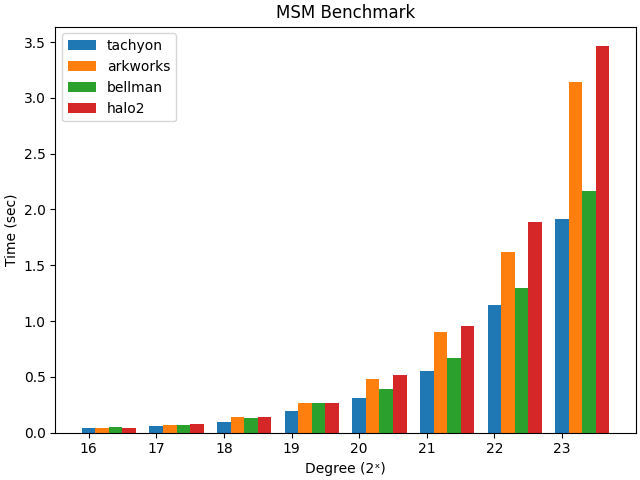
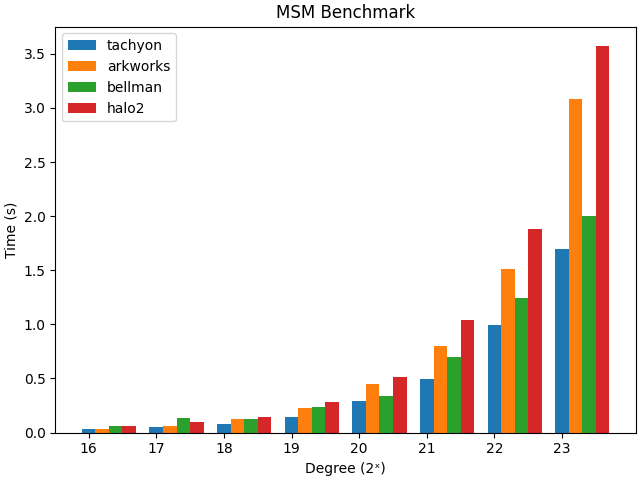
docs(benchmark): update MSM benchmarks with new flags

diff --git a/benchmark/msm/README.md b/benchmark/msm/README.md
@@ -4,6 +4,7 @@
 
 ```
 Run on 13th Gen Intel(R) Core(TM) i9-13900K (32 X 5500 MHz CPU s)
+Compiler: clang-15
 CPU Caches:
   L1 Data 48 KiB (x16)
   L1 Instruction 32 KiB (x16)
@@ -17,24 +18,26 @@ CPU Caches:
   L2 Unified 4096 KiB (x12)
 ```
 
+Note: Run with `build --@rules_rust//:extra_rustc_flags="-Ctarget-cpu=native"` in your .bazelrc.user
+
 ### Uniform points
 
 ```shell
-bazel run --config opt --//:has_matplotlib //benchmark/msm:msm_benchmark -- -k 16 -k 17 -k 18 -k 19 -k 20 -k 21 -k 22 -k 23 --vendor arkworks --vendor bellman --vendor halo2 --check_results
+GOMP_SPINCOUNT=0 bazel run --config maxopt --//:has_matplotlib //benchmark/msm:msm_benchmark -- -k 16 -k 17 -k 18 -k 19 -k 20 -k 21 -k 22 -k 23 --vendor arkworks --vendor bellman --vendor halo2 --check_results
 ```
 
 #### On Intel i9-13900K
 
 | Exponent | Tachyon      | Arkworks | Bellman  | Halo2    |
 | :------: | ------------ | -------- | -------- | -------- |
-|    16    | **0.037107** | 0.043005 | 0.079576 | 0.04854  |
-|    17    | **0.051857** | 0.078176 | 0.11077  | 0.087005 |
-|    18    | **0.10235**  | 0.15416  | 0.179148 | 0.146375 |
-|    19    | **0.185314** | 0.301129 | 0.360499 | 0.273742 |
-|    20    | **0.352276** | 0.592931 | 0.516447 | 0.533842 |
-|    21    | **0.630413** | 1.07979  | 1.00715  | 1.01114  |
-|    22    | **1.22393**  | 2.18742  | 2.00827  | 1.99418  |
-|    23    | **2.34737**  | 4.34471  | 3.2081   | 3.62107  |
+|    16    | **0.028461** | 0.037741 | 0.077416 | 0.045742 |
+|    17    | **0.059648** | 0.074936 | 0.105104 | 0.08211  |
+|    18    | **0.08743**  | 0.12735  | 0.196602 | 0.151715 |
+|    19    | **0.181646** | 0.252424 | 0.319185 | 0.282056 |
+|    20    | **0.303829** | 0.454595 | 0.471094 | 0.526231 |
+|    21    | **0.549287** | 0.951397 | 0.886244 | 1.00624  |
+|    22    | **1.11021**  | 2.00783  | 1.72011  | 1.9662   |
+|    23    | **2.06762**  | 3.78478  | 2.76673  | 3.68139  |
 
 ![image](/benchmark/msm/msm_benchmark_uniform_ubuntu_i9.png)
 
@@ -42,35 +45,35 @@ bazel run --config opt --//:has_matplotlib //benchmark/msm:msm_benchmark -- -k 1
 
 | Exponent | Tachyon      | Arkworks | Bellman  | Halo2    |
 | :------: | ------------ | -------- | -------- | -------- |
-|    16    | **0.049285** | 0.052368 | 0.118564 | 0.079168 |
-|    17    | **0.088628** | 0.105875 | 0.16704  | 0.142758 |
-|    18    | **0.157609** | 0.19186  | 0.299953 | 0.278592 |
-|    19    | **0.282686** | 0.351326 | 0.578682 | 0.506371 |
-|    20    | **0.571241** | 0.702036 | 0.901252 | 0.974515 |
-|    21    | **1.106550** | 1.54553  | 1.63521  | 1.85615  |
-|    22    | **2.276600** | 3.35888  | 3.274    | 3.68391  |
-|    23    | **4.191330** | 6.41272  | 5.86292  | 6.89936  |
+|    16    | **0.046099** | 0.051773 | 0.110882 | 0.09505  |
+|    17    | **0.079298** | 0.097698 | 0.166183 | 0.174984 |
+|    18    | **0.151962** | 0.173607 | 0.296879 | 0.337657 |
+|    19    | **0.287848** | 0.34129  | 0.5563   | 0.592885 |
+|    20    | **0.504987** | 0.630489 | 0.840907 | 1.07097  |
+|    21    | **0.980302** | 1.33391  | 1.56196  | 1.98335  |
+|    22    | **1.89977**  | 2.86768  | 3.04392  | 3.9341   |
+|    23    | **3.73015**  | 5.71419  | 5.45636  | 7.51033  |
 
 ![image](/benchmark/msm/msm_benchmark_uniform_mac_m3.png)
 
 ### Non-uniform points
 
 ```shell
-bazel run --config opt --//:has_matplotlib //benchmark/msm:msm_benchmark -- -k 16 -k 17 -k 18 -k 19 -k 20 -k 21 -k 22 -k 23 --vendor arkworks --vendor bellman --vendor halo2 --test_set non_uniform --check_results
+GOMP_SPINCOUNT=0 bazel run --config maxopt --//:has_matplotlib //benchmark/msm:msm_benchmark -- -k 16 -k 17 -k 18 -k 19 -k 20 -k 21 -k 22 -k 23 --vendor arkworks --vendor bellman --vendor halo2 --test_set non_uniform --check_results
 ```
 
 #### On Intel i9-13900K
 
-| Exponent | Tachyon      | Arkworks     | Bellman  | Halo2    |
-| :------: | ------------ | ------------ | -------- | -------- |
-|    16    | 0.041756     | **0.038514** | 0.050397 | 0.040222 |
-|    17    | **0.06304**  | 0.069963     | 0.067314 | 0.07276  |
-|    18    | **0.09546**  | 0.137724     | 0.126665 | 0.138729 |
-|    19    | **0.189892** | 0.261193     | 0.262439 | 0.26166  |
-|    20    | **0.313575** | 0.475754     | 0.387448 | 0.51257  |
-|    21    | **0.550828** | 0.901562     | 0.666334 | 0.955411 |
-|    22    | **1.14408**  | 1.61699      | 1.29853  | 1.88522  |
-|    23    | **1.91659**  | 3.13911      | 2.16368  | 3.46701  |
+| Exponent | Tachyon      | Arkworks | Bellman  | Halo2    |
+| :------: | ------------ | -------- | -------- | -------- |
+|    16    | **0.030188** | 0.033608 | 0.057795 | 0.060642 |
+|    17    | **0.048851** | 0.064059 | 0.132584 | 0.099568 |
+|    18    | **0.080146** | 0.121525 | 0.124192 | 0.147496 |
+|    19    | **0.147626** | 0.227517 | 0.234429 | 0.27793  |
+|    20    | **0.289661** | 0.445139 | 0.341189 | 0.509375 |
+|    21    | **0.495707** | 0.801975 | 0.702259 | 1.0386   |
+|    22    | **0.993738** | 1.51266  | 1.24812  | 1.88462  |
+|    23    | **1.69944**  | 3.07904  | 2.00071  | 3.57452  |
 
 ![image](/benchmark/msm/msm_benchmark_non_uniform_ubuntu_i9.png)
 
@@ -78,14 +81,14 @@ bazel run --config opt --//:has_matplotlib //benchmark/msm:msm_benchmark -- -k 1
 
 | Exponent | Tachyon      | Arkworks | Bellman  | Halo2    |
 | :------: | ------------ | -------- | -------- | -------- |
-|    16    | **0.040045** | 0.049862 | 0.083292 | 0.082423 |
-|    17    | **0.074318** | 0.091205 | 0.128679 | 0.157111 |
-|    18    | **0.140125** | 0.177842 | 0.232212 | 0.310648 |
-|    19    | **0.287691** | 0.330268 | 0.437016 | 0.535915 |
-|    20    | **0.55437**  | 0.651841 | 0.713282 | 1.01238  |
-|    21    | **1.01053**  | 1.36348  | 1.29945  | 1.75816  |
-|    22    | **2.00677**  | 2.56     | 2.49532  | 3.55769  |
-|    23    | **4.02119**  | 5.2982   | 4.56454  | 7.11582  |
+|    16    | **0.040954** | 0.046663 | 0.076068 | 0.089352 |
+|    17    | **0.069956** | 0.089339 | 0.119363 | 0.166812 |
+|    18    | **0.146869** | 0.163578 | 0.225768 | 0.326553 |
+|    19    | **0.268475** | 0.302439 | 0.460063 | 0.579915 |
+|    20    | **0.501956** | 0.627272 | 0.723071 | 1.09316  |
+|    21    | **0.920728** | 1.20662  | 1.22352  | 1.98457  |
+|    22    | **1.78902**  | 2.40124  | 2.24543  | 3.83765  |
+|    23    | **3.47906**  | 4.70651  | 4.13381  | 7.43978  |
 
 ![image](/benchmark/msm/msm_benchmark_non_uniform_mac_m3.png)
 
@@ -94,41 +97,41 @@ bazel run --config opt --//:has_matplotlib //benchmark/msm:msm_benchmark -- -k 1
 ### Uniform points
 
 ```shell
-bazel run --config opt --//:has_matplotlib --config cuda //benchmark/msm:msm_benchmark_gpu -- -k 16 -k 17 -k 18 -k 19 -k 20 -k 21 -k 22 -k 23 --test_set non_uniform --check_results
+GOMP_SPINCOUNT=0 bazel run --config maxopt --//:has_matplotlib --config cuda //benchmark/msm:msm_benchmark_gpu -- -k 16 -k 17 -k 18 -k 19 -k 20 -k 21 -k 22 -k 23 --test_set non_uniform --check_results
 ```
 
 #### On RTX-4090
 
 | Exponent | Tachyon CPU | Tachyon GPU  |
 | :------: | ----------- | ------------ |
-|    16    | 0.044828    | **0.02644**  |
-|    17    | 0.070154    | **0.008896** |
-|    18    | 0.120668    | **0.015391** |
-|    19    | 0.191098    | **0.021299** |
-|    20    | 0.369561    | **0.032302** |
-|    21    | 0.675571    | **0.060279** |
-|    22    | 1.26675     | **0.166554** |
-|    23    | 2.41323     | **0.219751** |
+|    16    | 0.026688    | **0.01981**  |
+|    17    | 0.041291    | **0.006624** |
+|    18    | 0.081467    | **0.008306** |
+|    19    | 0.148929    | **0.012553** |
+|    20    | 0.260831    | **0.02423**  |
+|    21    | 0.474542    | **0.044591** |
+|    22    | 0.921276    | **0.088349** |
+|    23    | 1.70264     | **0.162646** |
 
 ![image](/benchmark/msm/msm_benchmark_uniform_ubuntu_rtx_4090.png)
 
 ### Non-uniform points
 
 ```shell
-bazel run --config opt --//:has_matplotlib --config cuda //benchmark/msm:msm_benchmark_gpu -- -k 16 -k 17 -k 18 -k 19 -k 20 -k 21 -k 22 -k 23 --check_results
+GOMP_SPINCOUNT=0 bazel run --config maxopt --//:has_matplotlib --config cuda //benchmark/msm:msm_benchmark_gpu -- -k 16 -k 17 -k 18 -k 19 -k 20 -k 21 -k 22 -k 23 --check_results
 ```
 
 #### On RTX-4090
 
 | Exponent | Tachyon CPU | Tachyon GPU  |
 | :------: | ----------- | ------------ |
-|    16    | 0.044986    | **0.025648** |
-|    17    | 0.061027    | **0.010882** |
-|    18    | 0.108204    | **0.012794** |
-|    19    | 0.182035    | **0.022456** |
-|    20    | 0.326646    | **0.033684** |
-|    21    | 0.589097    | **0.060135** |
-|    22    | 1.11816     | **0.169485** |
-|    23    | 2.11566     | **0.219624** |
+|    16    | 0.029045    | **0.020228** |
+|    17    | 0.047588    | **0.006565** |
+|    18    | 0.089673    | **0.008864** |
+|    19    | 0.164875    | **0.012308** |
+|    20    | 0.29135     | **0.023396** |
+|    21    | 0.541067    | **0.043512** |
+|    22    | 1.0379      | **0.08407**  |
+|    23    | 2.08601     | **0.157046** |
 
 ![image](/benchmark/msm/msm_benchmark_non_uniform_ubuntu_rtx_4090.png)
